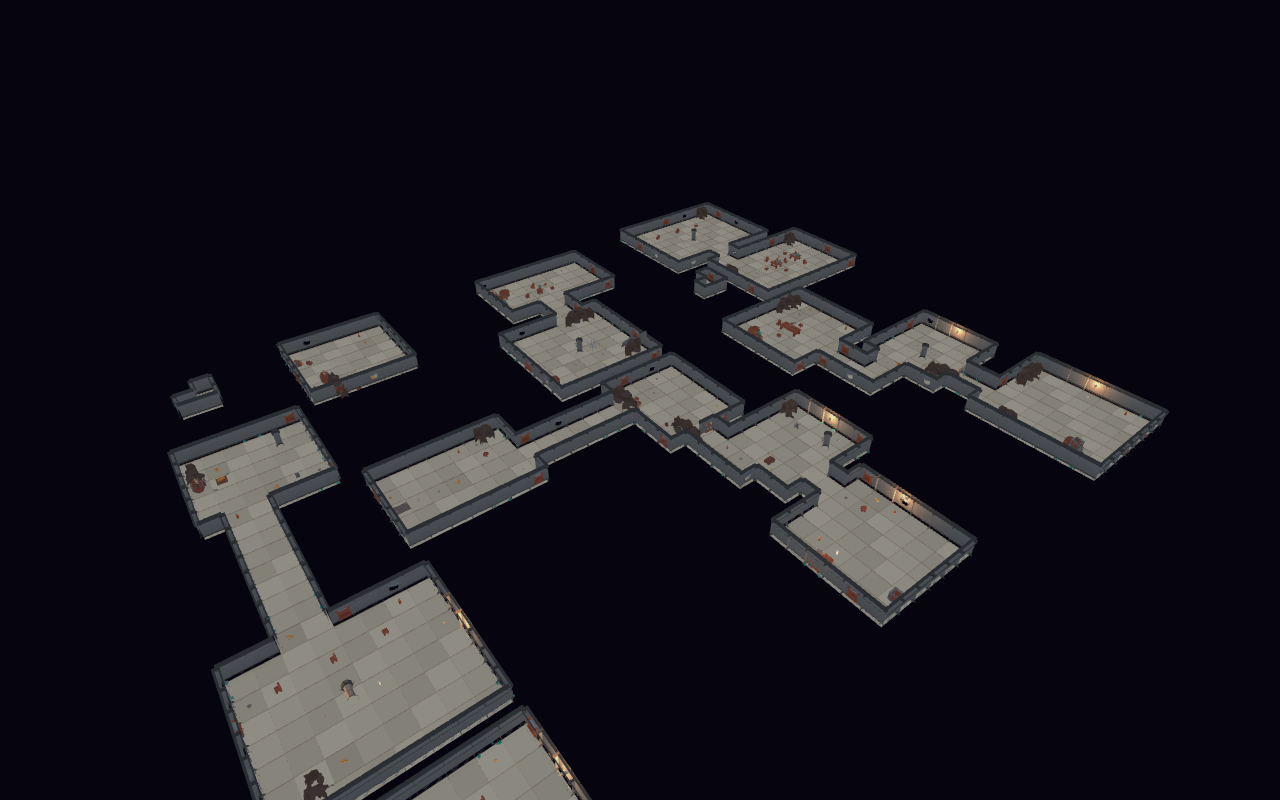
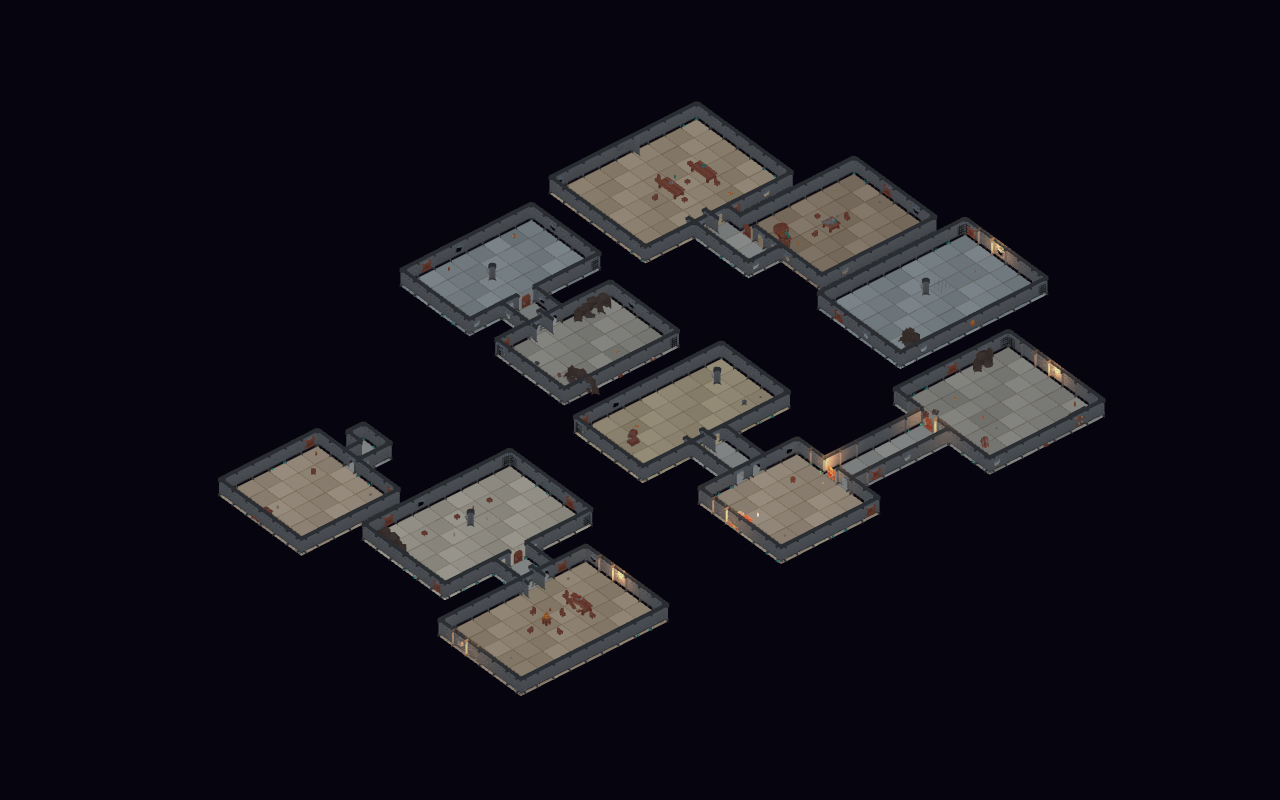
feat(graphics): add orthographic dungeon presentation

Changed region(s): [[0.125, 0.125, 0.9062, 1.0]]

diff --git a/src/modules/procgen/algorithms/RoguelikeGenerator.cpp b/src/modules/procgen/algorithms/RoguelikeGenerator.cpp
@@ -128,13 +128,17 @@ bool rectsOverlap(const Rect &a, const Rect &b, int pad) {
 
 void carveCorridor(Grid2D &out, int ax, int ay, int bx, int by, int width,
                    const std::string &style, std::mt19937 &rng) {
+    auto carve = [&](int x, int y) {
+        if (uint32_t(out.getCell(x, y)) == Semantic::Wall)
+            out.setCell(x, y, int(Semantic::Corridor));
+    };
     if (style == "diagonal") {
         int x = ax;
         int y = ay;
         while (x != bx || y != by) {
             for (int oy = 0; oy < width; ++oy)
                 for (int ox = 0; ox < width; ++ox)
-                    out.setCell(x + ox, y + oy, int(Semantic::Corridor));
+                    carve(x + ox, y + oy);
             if (x != bx && y != by && (rng() & 1u)) {
                 x += (bx > x) ? 1 : -1;
             } else if (x != bx) {
@@ -144,7 +148,7 @@ void carveCorridor(Grid2D &out, int ax, int ay, int bx, int by, int width,
             }
         }
         for (int oy = 0; oy < width; ++oy)
-            for (int ox = 0; ox < width; ++ox) out.setCell(x + ox, y + oy, int(Semantic::Corridor));
+            for (int ox = 0; ox < width; ++ox) carve(x + ox, y + oy);
         return;
     }
 
@@ -162,13 +166,13 @@ void carveCorridor(Grid2D &out, int ax, int ay, int bx, int by, int width,
     const int x1 = std::max(ax, cornerX);
     for (int x = x0; x <= x1; ++x)
         for (int oy = 0; oy < width; ++oy)
-            out.setCell(x, cornerY + oy, int(Semantic::Corridor));
+            carve(x, cornerY + oy);
 
     const int y0 = std::min(cornerY, by);
     const int y1 = std::max(cornerY, by);
     for (int y = y0; y <= y1; ++y)
         for (int ox = 0; ox < width; ++ox)
-            out.setCell(cornerX + ox, y, int(Semantic::Corridor));
+            carve(cornerX + ox, y);
 }
 
 bool genRoguelike(const Params &params, Grid2D &out, std::string &error) {
@@ -366,9 +370,15 @@ bool genRoguelike(const Params &params, Grid2D &out, std::string &error) {
             const int top = r.y, bottom = r.y + r.h - 1;
             const int cx = r.x + r.w / 2, cy = r.y + r.h / 2;
             const int theme = int((roomIndex + seed) % 7); // storage/quarters/dining/armory/treasury/shrine/tavern
+            static constexpr const char *kThemeNames[] = {
+                "storage", "quarters", "dining", "armory", "treasury", "shrine", "tavern"};
+            out.addAssetObject("room" + std::to_string(roomIndex), "room",
+                               kThemeNames[theme], float(r.x), float(r.y),
+                               float(r.w), float(r.h), 0.f, 32);
 
             // Every furnished room receives wall-mounted light and occasional banner.
             place("light", wallLights, left, cy, 90.f, 2 | 4);
+            if (r.w >= 6) place("light", wallLights, right, cy, 270.f, 2 | 4);
             if ((rng() % 3u) != 0) place("banner", banners, cx, top, 180.f, 2);
 
             if (decorSet == "pillars") {
@@ -443,7 +453,7 @@ bool genRoguelike(const Params &params, Grid2D &out, std::string &error) {
 
             // Sparse edge clutter gives the dense, lived-in reference look without
             // turning room centres and corridors into an obstacle field.
-            const int clutterAttempts = clampInt(int(std::ceil(propDensity * 4.f)), 0, 4);
+            const int clutterAttempts = clampInt(int(std::ceil(propDensity * 1.5f)), 0, 2);
             const std::pair<int, int> clutterSpots[] = {
                 {left, top + 1}, {right, bottom - 1}, {left + 1, bottom}, {right - 1, top}};
             for (int i = 0; i < clutterAttempts; ++i) {

diff --git a/src/modules/graphics/RenderSystem3D.cpp b/src/modules/graphics/RenderSystem3D.cpp
@@ -157,6 +157,13 @@ void Camera3D::setUp(float x, float y, float z) {
 
 void Camera3D::setFov(float fovYDeg) { data()->fovYDeg = fovYDeg; }
 
+void Camera3D::setOrthographic(float height) {
+    data()->orthographic = true;
+    data()->orthoHeight = std::max(0.001f, height);
+}
+
+void Camera3D::setPerspective() { data()->orthographic = false; }
+
 void Camera3D::setClipPlanes(float nearZ, float farZ) {
     data()->nearZ = std::max(0.001f, nearZ);
     data()->farZ = std::max(data()->nearZ + 0.001f, farZ);
@@ -193,7 +200,8 @@ void Camera3D::screenToRay(float screenX, float screenY, float viewW, float view
     const glm::mat4 viewM = glm::lookAtRH(eye, target, up);
     const float aspect = viewW / viewH;
     const float fovRad = d->fovYDeg * 0.017453292519943295f;
-    const glm::mat4 projM = perspectiveVulkanRH_ZO(fovRad, aspect, d->nearZ, d->farZ);
+    const glm::mat4 projM = cameraProjectionVulkanRH_ZO(
+        d->orthographic, fovRad, d->orthoHeight, aspect, d->nearZ, d->farZ);
     const glm::mat4 invVP = glm::inverse(projM * viewM);
 
     // Screen pixel → Vulkan NDC (Y-down; matches perspectiveVulkanRH_ZO).
@@ -216,6 +224,11 @@ void Camera3D::screenToRay(float screenX, float screenY, float viewW, float view
     d->screenRayOx = eye.x;
     d->screenRayOy = eye.y;
     d->screenRayOz = eye.z;
+    if (d->orthographic) {
+        d->screenRayOx = nearPt.x;
+        d->screenRayOy = nearPt.y;
+        d->screenRayOz = nearPt.z;
+    }
     d->screenRayDx = dir.x;
     d->screenRayDy = dir.y;
     d->screenRayDz = dir.z;
@@ -517,11 +530,13 @@ CameraView buildCameraView(Camera3D::Data *cd, const std::vector<PackedLight3D> 
     const glm::vec3 up(cd->upX, cd->upY, cd->upZ);
     cv.view     = glm::lookAtRH(cv.eye, look, up);
     cv.fovRad   = cd->fovYDeg * 0.017453292519943295f;
-    cv.proj     = perspectiveVulkanRH_ZO(cv.fovRad, aspect, cd->nearZ, cd->farZ);
+    cv.proj     = cameraProjectionVulkanRH_ZO(cd->orthographic, cv.fovRad,
+                                              cd->orthoHeight, aspect,
+                                              cd->nearZ, cd->farZ);
     cv.viewProj = cv.proj * cv.view;
     cv.frustum  = extractFrustum(cv.viewProj);
     cv.lighting = packLights3D(packed, cd);
-    if (useClustered) {
+    if (useClustered && !cd->orthographic) {
         cv.clustered      = buildClusteredLighting(clusteredPoints, clusteredDirs, cv.view, cd->nearZ, cd->farZ,
                                                    gfx.getWidth(), gfx.getHeight(), cv.fovRad,
                                                    glm::vec4(cd->ambientR, cd->ambientG, cd->ambientB, 0.f));
@@ -1103,7 +1118,8 @@ void RenderSystem3D::renderToCanvas(Graphics &gfx, Canvas *target, Camera3D *cam
     const glm::vec3 up(cd->upX, cd->upY, cd->upZ);
     const glm::mat4 viewM = glm::lookAtRH(eye, look, up);
     const float fovRad = cd->fovYDeg * 0.017453292519943295f;
-    const glm::mat4 projM = perspectiveVulkanRH_ZO(fovRad, aspect, cd->nearZ, cd->farZ);
+    const glm::mat4 projM = cameraProjectionVulkanRH_ZO(
+        cd->orthographic, fovRad, cd->orthoHeight, aspect, cd->nearZ, cd->farZ);
     gfx.setMesh3DViewProj(projM * viewM);
     gfx.setMesh3DView(viewM);
     gfx.setMesh3DClip(cd->nearZ, cd->farZ);

diff --git a/test/roguelike_generator.cpp b/test/roguelike_generator.cpp
@@ -8,6 +8,7 @@
 
 #include <algorithm>
 #include <cmath>
+#include <queue>
 #include <set>
 #include <string>
 #include <vector>
@@ -141,6 +142,32 @@ bool markersWalkable(const Grid2D &g) {
     return true;
 }
 
+bool allWalkableConnected(const Grid2D &g) {
+    const int w = g.getWidth(), h = g.getHeight();
+    int start = -1, total = 0;
+    for (int y = 0; y < h; ++y)
+        for (int x = 0; x < w; ++x)
+            if (isWalkableCell(g, x, y)) { if (start < 0) start = y * w + x; ++total; }
+    if (start < 0) return true;
+    std::vector<bool> seen(size_t(w * h), false);
+    std::queue<int> pending;
+    pending.push(start); seen[size_t(start)] = true;
+    int reached = 0;
+    constexpr int dx[] = {1, -1, 0, 0};
+    constexpr int dy[] = {0, 0, 1, -1};
+    while (!pending.empty()) {
+        const int key = pending.front(); pending.pop(); ++reached;
+        const int x = key % w, y = key / w;
+        for (int i = 0; i < 4; ++i) {
+            const int nx = x + dx[i], ny = y + dy[i];
+            if (nx < 0 || ny < 0 || nx >= w || ny >= h || !isWalkableCell(g, nx, ny)) continue;
+            const int next = ny * w + nx;
+            if (!seen[size_t(next)]) { seen[size_t(next)] = true; pending.push(next); }
+        }
+    }
+    return reached == total;
+}
+
 }  // namespace
 
 TEST_CASE("procgen.roguelike.reproducible") {
@@ -180,6 +207,7 @@ TEST_CASE("procgen.roguelike.structure") {
     pView->setSeed(7);
     pView->setSize(48, 32);
     pView->setInt("roomCount", 12);
+    pView->setString("connectionStyle", "nearest");
     pView->setFloat("decorDensity", 0.06f);
     pView->setString("decorSet", "mixed");
     auto gLease = requireGrid(*mod, "level.roguelike", p.handle);
@@ -199,6 +227,7 @@ TEST_CASE("procgen.roguelike.structure") {
     // Detail layer: wall autotile masks + floor variants are present.
     CHECK(wallMasksConsistent(*g));
     CHECK(markersWalkable(*g));
+    CHECK(allWalkableConnected(*g));
 
     // Metadata describes the run.
     CHECK_EQ(g->getMeta("algorithm", ""), "level.roguelike");
@@ -288,7 +317,16 @@ TEST_CASE("procgen.roguelike.configurableAssetDressing") {
 
     bool customLight = false;
     bool fractionalPlacement = false;
+    bool roomZone = false;
     for (int i = 0; i < g->getObjectCount(); ++i) {
+        if (g->getObjectType(i) == "room") {
+            roomZone = true;
+            const int rx = int(g->getObjectX(i)), ry = int(g->getObjectY(i));
+            const int rw = int(g->getObjectWidth(i)), rh = int(g->getObjectHeight(i));
+            for (int y = ry; y < ry + rh; ++y)
+                for (int x = rx; x < rx + rw; ++x)
+                    CHECK_EQ(g->getCell(x, y), int(Semantic::Floor));
+        }
         if (g->getObjectType(i) == "light") {
             customLight = customLight || g->getObjectAsset(i) == "sconce_custom";
             CHECK((g->getObjectFlags(i) & 4) != 0);
@@ -300,6 +338,7 @@ TEST_CASE("procgen.roguelike.configurableAssetDressing") {
             std::abs(g->getObjectY(i) - std::round(g->getObjectY(i))) > 0.01f;
     }
     CHECK(customLight);
+    CHECK(roomZone);
     CHECK(fractionalPlacement);
     CHECK(markersWalkable(*g));
 }

diff --git a/src/modules/graphics/GraphicsCapabilities.cpp b/src/modules/graphics/GraphicsCapabilities.cpp
@@ -254,8 +254,9 @@ public:
         if (outHeight) *outHeight = vh;
         if (vw <= 0 || vh <= 0) return "{\"error\":\"empty viewport\"}";
         const glm::mat4 viewM = glm::lookAtRH(eye, target, up);
-        const glm::mat4 projM = perspectiveVulkanRH_ZO(degToRad(d->fovYDeg), float(vw) / float(vh),
-                                                       d->nearZ, d->farZ);
+        const glm::mat4 projM = cameraProjectionVulkanRH_ZO(
+            d->orthographic, degToRad(d->fovYDeg), d->orthoHeight,
+            float(vw) / float(vh), d->nearZ, d->farZ);
         const glm::mat4 viewProj = projM * viewM;
 
         std::vector<Graphics::EntityIdDraw> draws;
@@ -324,8 +325,9 @@ public:
             return false;
         }
         const glm::mat4 viewM = glm::lookAtRH(eye, target, up);
-        const glm::mat4 projM = perspectiveVulkanRH_ZO(degToRad(d->fovYDeg), float(vw) / float(vh),
-                                                       d->nearZ, d->farZ);
+        const glm::mat4 projM = cameraProjectionVulkanRH_ZO(
+            d->orthographic, degToRad(d->fovYDeg), d->orthoHeight,
+            float(vw) / float(vh), d->nearZ, d->farZ);
         const glm::mat4 viewProj = projM * viewM;
         std::vector<Graphics::EntityIdDraw> draws;
         int id = 1;

diff --git a/test/RenderSystem3D.cpp b/test/RenderSystem3D.cpp
@@ -769,6 +769,24 @@ TEST_CASE("Camera3D.screenToRayPick") {
     CHECK(std::fabs(len - 1.f) < 1e-4f);
 }
 
+TEST_CASE("Camera3D.orthographicScreenRaysAreParallel") {
+    auto *cam = Camera3D::createCamera();
+    cam->setEye(0.f, 0.f, 10.f);
+    cam->setTarget(0.f, 0.f, 0.f);
+    cam->setOrthographic(8.f);
+
+    cam->screenToRay(20.f, 60.f, 160.f, 120.f);
+    const float leftOrigin = cam->getScreenRayOriginX();
+    const float leftDirX = cam->getScreenRayDirX();
+    const float leftDirZ = cam->getScreenRayDirZ();
+    cam->screenToRay(140.f, 60.f, 160.f, 120.f);
+
+    CHECK(cam->getScreenRayOriginX() > leftOrigin + 1.f);
+    CHECK(std::fabs(cam->getScreenRayDirX() - leftDirX) < 1e-4f);
+    CHECK(std::fabs(cam->getScreenRayDirZ() - leftDirZ) < 1e-4f);
+    CHECK(cam->getScreenRayDirZ() < -0.99f);
+}
+
 // ---------------------------------------------------------------------------
 // GPU 验证：逐像素实体 ID mask（renderEntityIdMask）与通用纹理读回
 // （readTextureToImageData）。这两条路径支撑 capture_render_frame 的

diff --git a/src/modules/graphics/RenderSystem3D.h b/src/modules/graphics/RenderSystem3D.h
@@ -26,6 +26,8 @@ public:
         float targetX = 0.f, targetY = 0.f, targetZ = 0.f;
         float upX = 0.f, upY = 1.f, upZ = 0.f;
         float fovYDeg = 60.f, nearZ = 0.1f, farZ = 100.f;
+        bool orthographic = false;
+        float orthoHeight = 20.f;
         float ambientR = 0.12f, ambientG = 0.12f, ambientB = 0.14f;
         Texture *envMap = nullptr;   // cubemap; nullptr → no IBL
         float envIntensity = 1.f;
@@ -50,6 +52,10 @@ public:
     void setTarget(float x, float y, float z);
     void setUp(float x, float y, float z);
     void setFov(float fovYDeg);
+    /** @brief Enable an orthographic projection with the given vertical world-space span. */
+    void setOrthographic(float height);
+    /** @brief Return to perspective projection, retaining the configured field of view. */
+    void setPerspective();
     /** @brief Set positive near/far clipping distances; far is kept beyond near. */
     void setClipPlanes(float nearZ, float farZ);
     void setActive(bool active);

diff --git a/src/modules/graphics/ClipSpace.h b/src/modules/graphics/ClipSpace.h
@@ -2,6 +2,8 @@
 
 #include <glm/gtc/matrix_transform.hpp>
 
+#include <algorithm>
+
 namespace eve {
 namespace graphics {
 
@@ -30,6 +32,16 @@ inline glm::mat4 orthoVulkanRH_ZO(float left, float right, float bottom, float t
     glm::mat4 p = glm::orthoRH_ZO(left, right, bottom, top, zNear, zFar);
     p[1][1] *= -1.f;
     return p;
+}
+
+/** @brief Camera projection shared by rendering, picking, and diagnostic passes. */
+inline glm::mat4 cameraProjectionVulkanRH_ZO(bool orthographic, float fovyRad,
+                                              float orthoHeight, float aspect,
+                                              float zNear, float zFar) {
+    if (!orthographic) return perspectiveVulkanRH_ZO(fovyRad, aspect, zNear, zFar);
+    const float halfH = std::max(0.001f, orthoHeight * 0.5f);
+    const float halfW = halfH * std::max(0.001f, aspect);
+    return orthoVulkanRH_ZO(-halfW, halfW, -halfH, halfH, zNear, zFar);
 }
 
 }  // namespace graphics

diff --git a/src/modules/graphics/ScenePicking.cpp b/src/modules/graphics/ScenePicking.cpp
@@ -42,9 +42,9 @@ std::vector<std::string> Scene::collectFrustumIdsAt(const std::string &hostName,
     const glm::vec3 target(d->targetX, d->targetY, d->targetZ);
     const glm::vec3 up(d->upX, d->upY, d->upZ);
     const glm::mat4 viewM = glm::lookAtRH(eye, target, up);
-    const glm::mat4 projM =
-        graphics::perspectiveVulkanRH_ZO(glm::radians(d->fovYDeg), viewW / viewH,
-                                         d->nearZ, d->farZ);
+    const glm::mat4 projM = graphics::cameraProjectionVulkanRH_ZO(
+        d->orthographic, glm::radians(d->fovYDeg), d->orthoHeight,
+        viewW / viewH, d->nearZ, d->farZ);
     const glm::mat4 clip = projM * viewM;
     const glm::mat4 invClip = glm::inverse(clip);
 

diff --git a/src/modules/graphics/Graphics.cpp b/src/modules/graphics/Graphics.cpp
@@ -345,6 +345,8 @@ void Graphics::expose(ssq::Table& table) {
     cam.addFunc("setTarget", &Camera3D::setTarget);
     cam.addFunc("setUp", &Camera3D::setUp);
     cam.addFunc("setFov", &Camera3D::setFov);
+    cam.addFunc("setOrthographic", &Camera3D::setOrthographic);
+    cam.addFunc("setPerspective", &Camera3D::setPerspective);
     cam.addFunc("setClipPlanes", &Camera3D::setClipPlanes);
     cam.addFunc("setActive", &Camera3D::setActive);
     cam.addFunc("setAmbient", &Camera3D::setAmbient);
